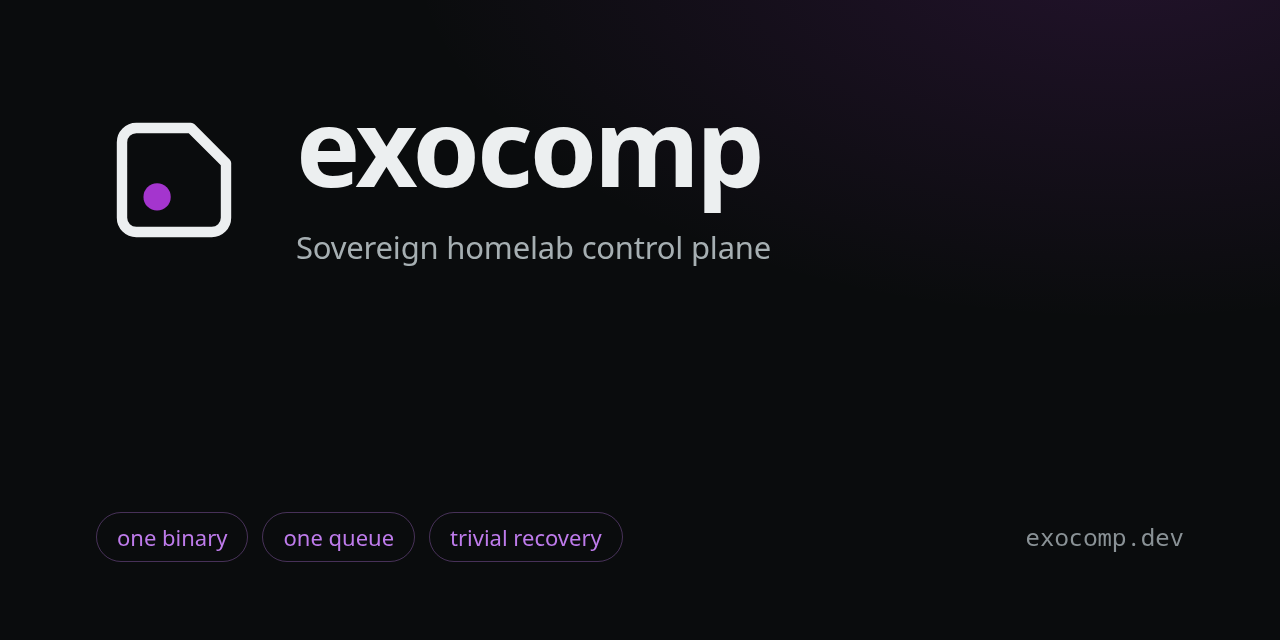
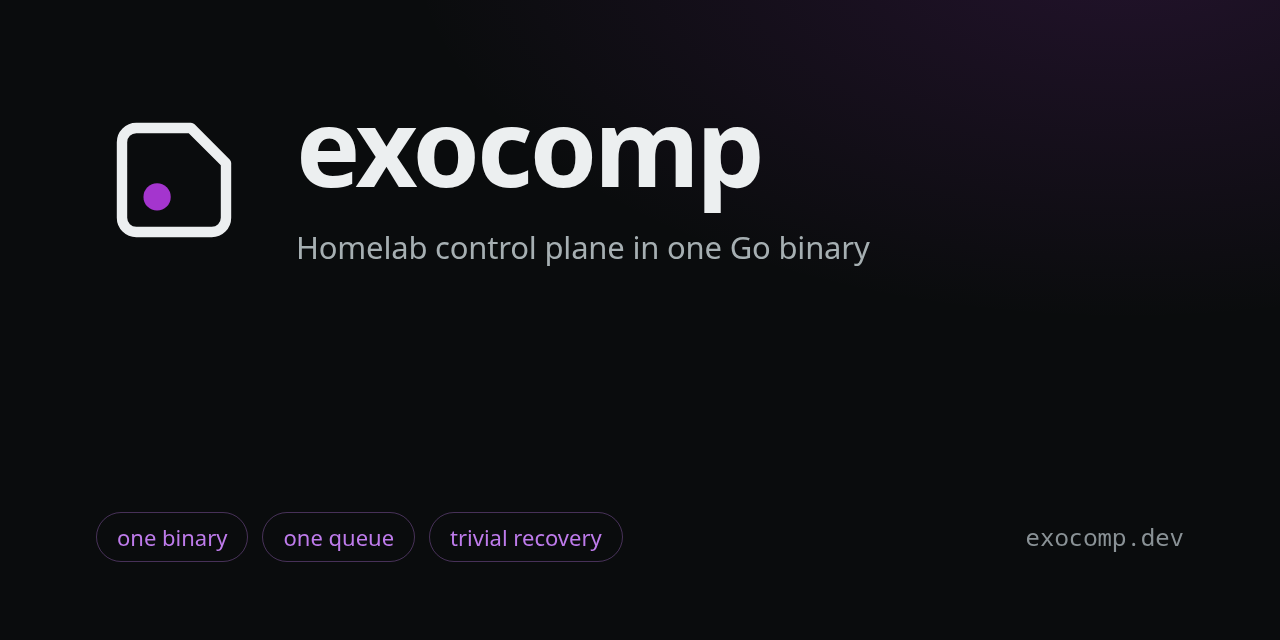
chore(site): drop the sovereign register from the copy
The tagline, the titles, the meta descriptions and the closing line led with "sovereign", which the project's own voice rejects. The card's generator carries the new tagline and is re-rendered at the same 1280x640, matching the sentence the repo description uses.

Changed region(s): [[0.2188, 0.375, 0.6875, 0.4062]]

diff --git a/site/index.html b/site/index.html
@@ -4,11 +4,11 @@
   <meta charset="utf-8">
   <meta name="viewport" content="width=device-width, initial-scale=1, viewport-fit=cover">
   <script>(function(){try{var t=localStorage.getItem('exocomp-theme');if(!t){t=window.matchMedia('(prefers-color-scheme: dark)').matches?'dark':'light';}document.documentElement.setAttribute('data-theme',t);}catch(e){}})();</script>
-  <title>exocomp · Sovereign homelab control plane</title>
-  <meta name="description" content="Sovereign homelab control plane. Run Ansible playbooks with drift detection, manage OpenTofu remote state with plan diffs, and store age envelope secrets. Zero sudo, plain SQLite.">
+  <title>exocomp · homelab control plane in one Go binary</title>
+  <meta name="description" content="Homelab control plane in one Go binary: Ansible, OpenTofu, backups and checks through one job queue, with state in plain SQLite.">
   <link rel="canonical" href="https://exocomp.dev/">
-  <meta property="og:title" content="exocomp · Sovereign homelab control plane">
-  <meta property="og:description" content="Run Ansible playbooks with drift detection, manage OpenTofu remote state with plan diffs, and store age envelope secrets in plain SQLite. Zero sudo.">
+  <meta property="og:title" content="exocomp · homelab control plane in one Go binary">
+  <meta property="og:description" content="Run Ansible playbooks with drift detection, manage OpenTofu remote state with plan diffs and approval gates, and keep secrets in an age envelope. One queue, plain SQLite.">
   <meta property="og:url" content="https://exocomp.dev/">
   <meta property="og:image" content="https://exocomp.dev/assets/screenshots/dashboard-split.png">
   <meta property="og:image:width" content="1600">
@@ -19,8 +19,8 @@
   <meta name="twitter:card" content="summary_large_image">
   <meta name="twitter:site" content="@abn">
   <meta name="twitter:url" content="https://exocomp.dev/">
-  <meta name="twitter:title" content="exocomp · Sovereign homelab control plane">
-  <meta name="twitter:description" content="Run Ansible playbooks with drift detection, manage OpenTofu remote state with plan diffs, and store age envelope secrets in plain SQLite. Zero sudo.">
+  <meta name="twitter:title" content="exocomp · homelab control plane in one Go binary">
+  <meta name="twitter:description" content="Run Ansible playbooks with drift detection, manage OpenTofu remote state with plan diffs and approval gates, and keep secrets in an age envelope. One queue, plain SQLite.">
   <meta name="twitter:image" content="https://exocomp.dev/assets/screenshots/dashboard-split.png">
   <link rel="icon" type="image/svg+xml" href="/assets/favicon.svg">
   <link rel="preconnect" href="https://fonts.googleapis.com">
@@ -32,7 +32,7 @@
     "@type": "SoftwareApplication",
     "name": "exocomp",
     "url": "https://exocomp.dev/",
-    "description": "Sovereign homelab control plane. Run Ansible playbooks with drift detection, manage OpenTofu remote state with plan diffs, and store age envelope secrets in plain SQLite with zero sudo.",
+    "description": "Homelab control plane in one Go binary: Ansible, OpenTofu, backups and checks through one job queue, with state in plain SQLite.",
     "operatingSystem": "Linux",
     "applicationCategory": "DevOpsApplication",
     "offers": {
@@ -94,10 +94,10 @@
     <!-- Hero Section: Leads with orchestration and capabilities -->
     <section class="hero">
       <div class="hero-content">
-        <div class="kicker">HOMELAB CONTROL PLANE · SOVEREIGN ORCHESTRATION</div>
+        <div class="kicker">HOMELAB CONTROL PLANE · ONE JOB QUEUE</div>
         <h1 class="hero-title">Orchestrate, converge,<br>and secure your infrastructure.</h1>
         <p class="hero-subtitle">
-          An unprivileged control plane for self-hosted fleets. Run Ansible playbooks with factual drift detection, manage OpenTofu remote state with plan diffs and approval gates, and store envelope secrets with age encryption. Everything runs through one serialized queue in plain SQLite with zero sudo and zero SaaS dependencies.
+          An unprivileged control plane for self-hosted fleets. Run Ansible playbooks with factual drift detection, manage OpenTofu remote state with plan diffs and approval gates, and store envelope secrets with age encryption. Everything runs through one serialized queue in plain SQLite.
         </p>
 
         <div class="hero-actions">
@@ -279,7 +279,7 @@
         <div class="origin-text">
           <h4>Origins: The Quality of Life</h4>
           <p>
-            Named after the autonomous engineering units from <em>Star Trek: The Next Generation</em>. In the series, exocomps are self-contained devices equipped with a versatile tool bay that reconfigure themselves to solve unpredictable operational problems. Here, that philosophy translates to a sovereign control plane managing your fleet through standard, un-opinionated tools.
+            Named after the autonomous engineering units from <em>Star Trek: The Next Generation</em>. In the series, exocomps are self-contained devices equipped with a versatile tool bay that reconfigure themselves to solve unpredictable operational problems. Here, that philosophy translates to one control plane managing your fleet through standard, un-opinionated tools.
           </p>
         </div>
       </div>
@@ -502,7 +502,7 @@ systemctl --user daemon-reload &amp;&amp; systemctl --user enable --now exocomp<
           exocomp
         </h3>
         <p>
-          Sovereign homelab control plane. Host service or rootless container, plain SQLite, exit-code truth, and standard tools.
+          Homelab control plane in one Go binary. Host service or rootless container, plain SQLite, exit-code truth, and standard tools.
         </p>
       </div>
 

diff --git a/site/assets/social-preview.html b/site/assets/social-preview.html
@@ -31,7 +31,7 @@
       </svg>
       <div>
         <div class="brand">exocomp</div>
-        <div class="tag">Sovereign homelab control plane</div>
+        <div class="tag">Homelab control plane in one Go binary</div>
       </div>
     </div>
     <div class="foot">
